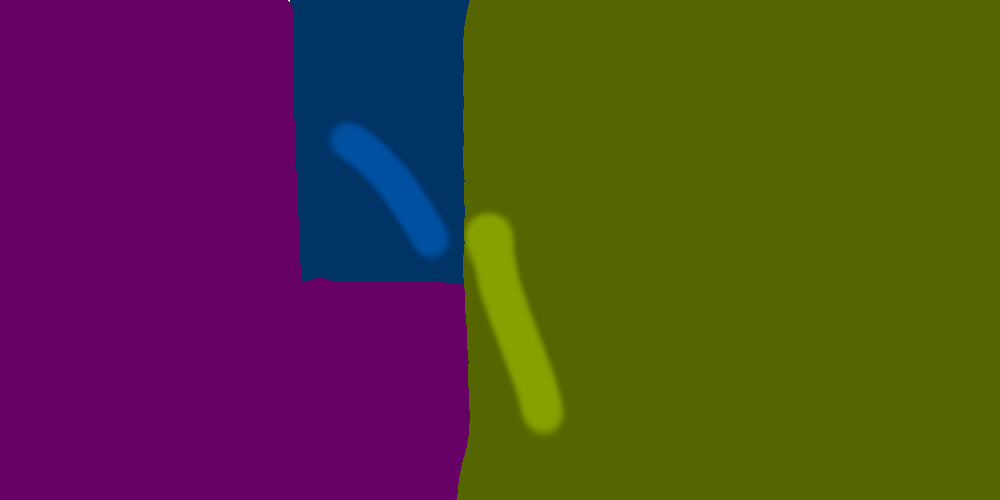
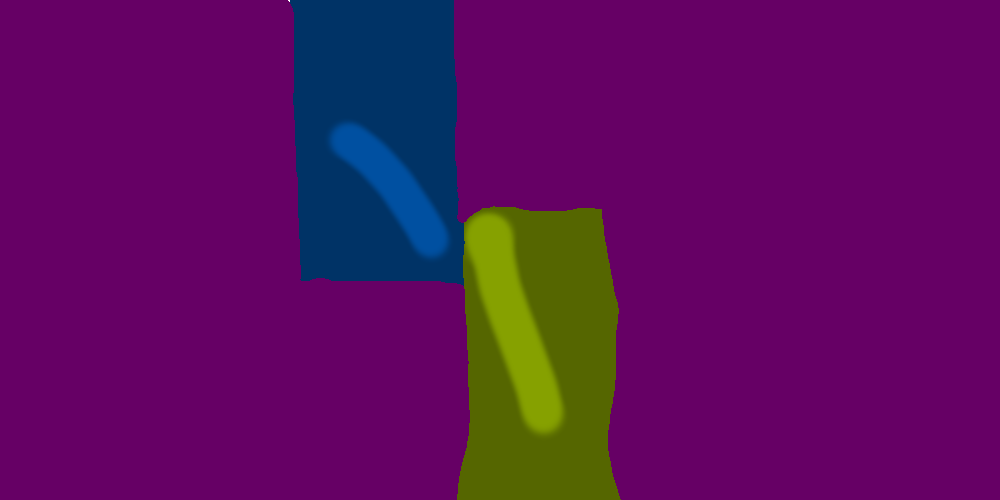
Calculate real moment of inertia tensor
[#144353115]

diff --git a/js/plates-model/plate.js b/js/plates-model/plate.js
@@ -25,10 +25,8 @@ export default class Plate {
     this.adjacentFields = new Map();
     // Decides whether plate goes under or above another plate while subducting (ocean-ocean).
     this.density = this.id;
-  }
 
-  get momentOfInertia() {
-    return this.fields.size * 0.1;
+    this.invMomentOfInertia = new THREE.Matrix3();
   }
 
   get angularSpeed() {
@@ -42,6 +40,33 @@ export default class Plate {
       return new THREE.Vector3(1, 0, 0);
     }
     return this.angularVelocity.clone().normalize();
+  }
+
+  updateInertiaTensor() {
+    let ixx = 0;
+    let iyy = 0;
+    let izz = 0;
+    let ixy = 0;
+    let ixz = 0;
+    let iyz = 0;
+    this.fields.forEach(field => {
+      const mass = field.mass;
+      const p = field.absolutePos;
+      ixx += mass * (p.y * p.y + p.z * p.z);
+      iyy += mass * (p.x * p.x + p.z * p.z);
+      izz += mass * (p.x * p.x + p.y * p.y);
+      ixy -= mass * p.x * p.y;
+      ixz -= mass * p.x * p.z;
+      iyz -= mass * p.y * p.z;
+    });
+    const momentOfInertia = new THREE.Matrix3();
+    momentOfInertia.set(
+      ixx, ixy, ixz,
+      ixy, iyy, iyz,
+      ixz, iyz, izz
+    );
+    this.invMomentOfInertia = new THREE.Matrix3();
+    this.invMomentOfInertia.getInverse(momentOfInertia);
   }
 
   linearVelocity(absolutePos) {
@@ -98,7 +123,7 @@ export default class Plate {
       field.calcForces();
       this.totalTorque.add(field.torque);
     });
-    this.angularAcceleration = this.totalTorque.clone().divideScalar(this.momentOfInertia);
+    this.angularAcceleration = this.totalTorque.clone().applyMatrix3(this.invMomentOfInertia);
   }
 
   updateFields(timestep) {

diff --git a/js/plates-model/field.js b/js/plates-model/field.js
@@ -1,6 +1,7 @@
 import * as THREE from 'three';
 import grid from './grid';
 import c from '../constants';
+import config from '../config';
 import Subduction from './subduction';
 import Orogeny from './orogeny';
 import VolcanicActivity from './volcanic-activity';
@@ -16,6 +17,9 @@ const defaultElevation = {
   // sea level: 0.5
   continent: 0.55
 };
+
+const fieldArea = c.earthArea / grid.size; // in km^2
+const massModifier = 0.000005; // adjust mass of the field, so simulation works well with given force values
 
 export default class Field {
   constructor({ id, plate, type = 'ocean', elevation = null }) {
@@ -34,6 +38,7 @@ export default class Field {
     this.displacement = new THREE.Vector3(0, 0, 0);
     this.collision = false;
 
+    this.mass = fieldArea * massModifier * (this.isOcean ? config.oceanDensity : config.continentDensity);
     this.force = new THREE.Vector3(0, 0, 0);
     this.torque = new THREE.Vector3(0, 0, 0);
 

diff --git a/js/presets.js b/js/presets.js
@@ -33,8 +33,7 @@ export default {
     init: function (plates) {
       const bluePlate = plates[210]; // 210 hue
       const yellowPlate = plates[70]; // 70 hue
-      bluePlate.addTorque(new THREE.Vector3(0, 0, 1), new THREE.Vector3(0.2, 0, 0));
-      yellowPlate.addTorque(new THREE.Vector3(0, 0, -1), new THREE.Vector3(2, 0, 0));
+      yellowPlate.addTorque(new THREE.Vector3(0, 0, -1), new THREE.Vector3(1, 0, 0));
     }
   },
   'continentalCollision4': {
@@ -42,7 +41,7 @@ export default {
     init: function (plates) {
       const bluePlate = plates[210]; // 210 hue
       const yellowPlate = plates[70]; // 70 hue
-      bluePlate.addTorque(new THREE.Vector3(0, 0, 1), new THREE.Vector3(0.7, 0.7, 0));
+      bluePlate.addTorque(new THREE.Vector3(0, 0, 1), new THREE.Vector3(2, 2, 0));
     }
   },
   'continentOceanCollision': {

diff --git a/js/plates-model/model.js b/js/plates-model/model.js
@@ -30,14 +30,6 @@ export default class Model {
     this.populateGridMapping();
   }
 
-  get kineticEnergy() {
-    let sum = 0;
-    this.plates.forEach(plate => {
-      sum += 0.5 * plate.angularSpeed * plate.momentOfInertia;
-    });
-    return sum;
-  }
-
   step(timestep) {
     if (this.diverged) {
       return;
@@ -72,6 +64,7 @@ export default class Model {
       this.handleCollisions();
       this.generateNewFields();
     }
+    this.plates.forEach(plate => plate.updateInertiaTensor());
   }
 
   handleCollisions() {

diff --git a/js/plates-model/generate-plates.js b/js/plates-model/generate-plates.js
@@ -30,6 +30,7 @@ export default function generatePlates(imgData, initFunction) {
     }
     plates[key].addField(fieldId, type, elevation);
   });
+  Object.values(plates).forEach(plate => plate.updateInertiaTensor());
   // User-provided function that can modify default options of all the plates.
   if (initFunction) {
     initFunction(plates);

diff --git a/js/components/plates.js b/js/components/plates.js
@@ -13,7 +13,7 @@ const height = window.innerHeight;
 
 const defaultPreset = 'subduction';
 
-const STEP_INTERVAL = 0.15; // s
+const STEP_INTERVAL = 0.2; // s
 
 export default class PlatesModel extends PureComponent {
   constructor(props) {

diff --git a/js/config.js b/js/config.js
@@ -15,6 +15,8 @@ const DEFAULT_CONFIG = {
   renderForces: false,
   renderEulerPoles: true,
   bumpMapping: false, // experimental, not polished yet
+  oceanDensity: 1,
+  continentDensity: 3
 };
 
 const urlConfig = {};
